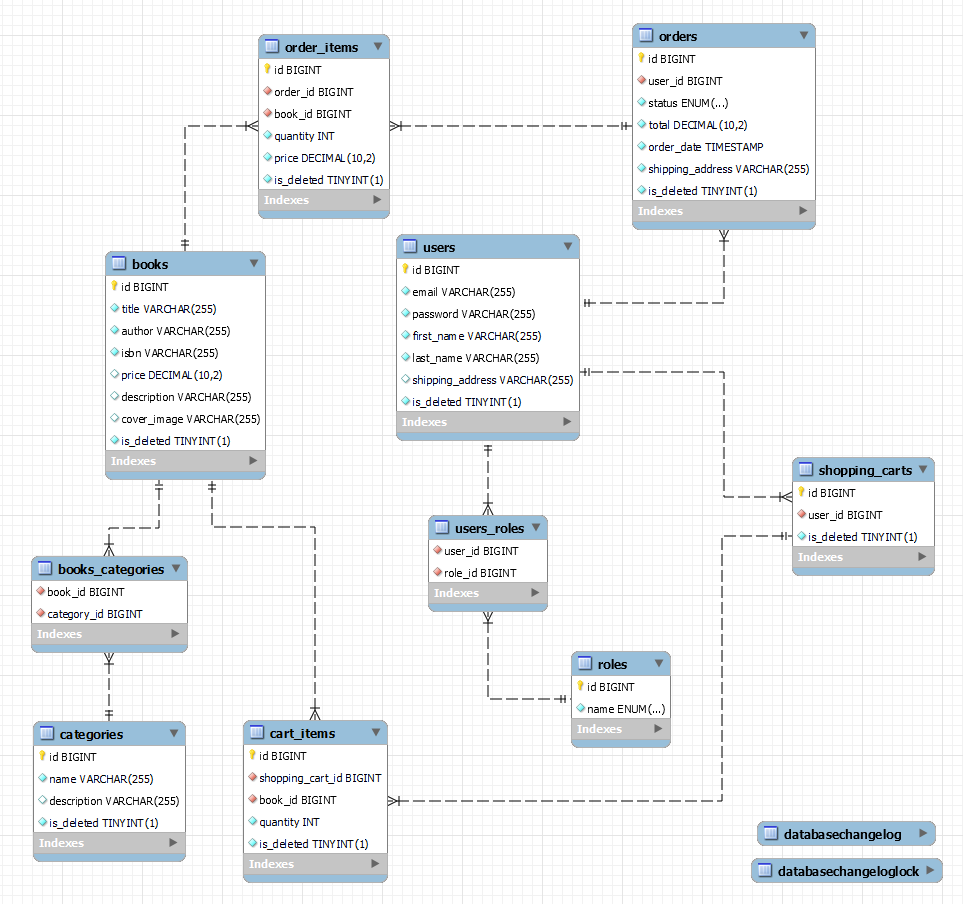
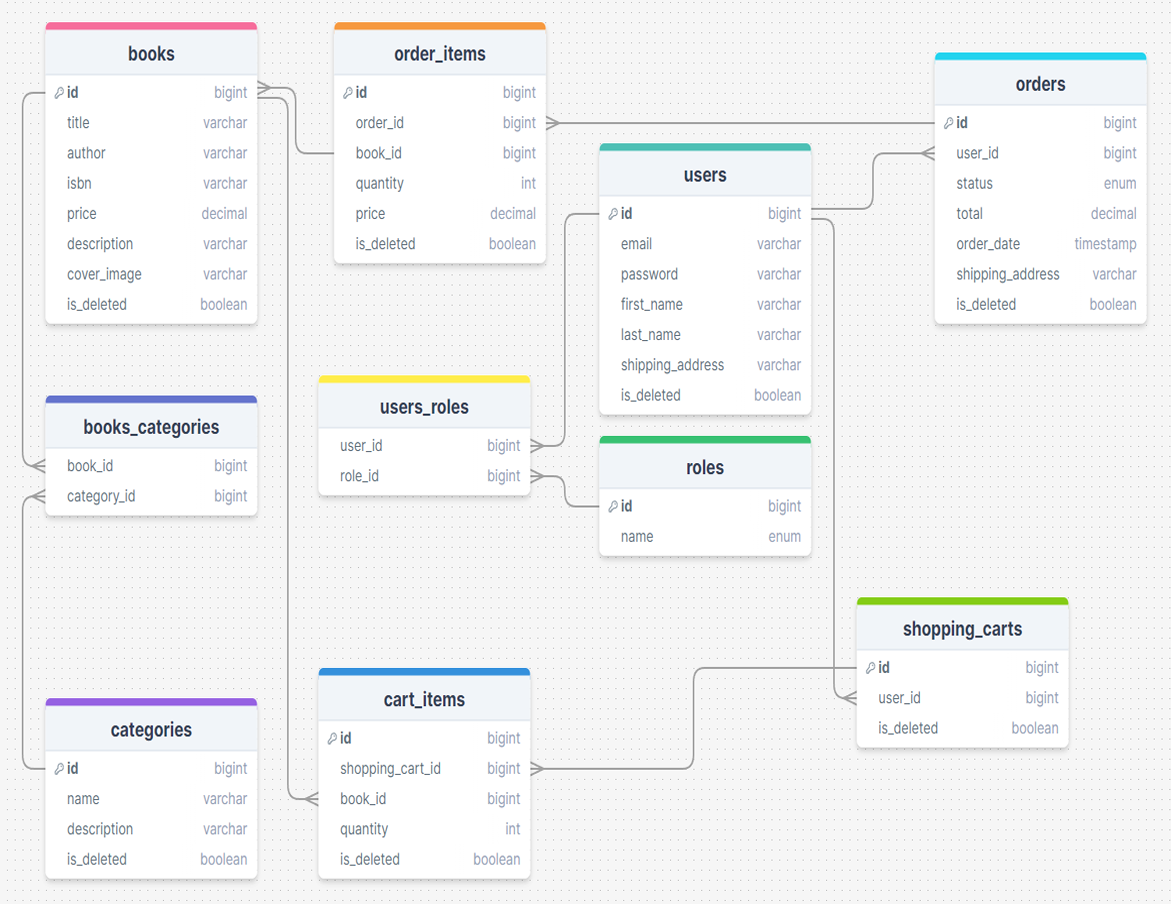
Readme, controller's descriptions, diagram, patch changed to putmapping fixed.

diff --git a/src/main/java/mate/academy/springbookapp/controller/OrderController.java b/src/main/java/mate/academy/springbookapp/controller/OrderController.java
@@ -15,9 +15,9 @@ import org.springframework.http.HttpStatus;
 import org.springframework.security.access.prepost.PreAuthorize;
 import org.springframework.security.core.Authentication;
 import org.springframework.web.bind.annotation.GetMapping;
-import org.springframework.web.bind.annotation.PatchMapping;
 import org.springframework.web.bind.annotation.PathVariable;
 import org.springframework.web.bind.annotation.PostMapping;
+import org.springframework.web.bind.annotation.PutMapping;
 import org.springframework.web.bind.annotation.RequestBody;
 import org.springframework.web.bind.annotation.RequestMapping;
 import org.springframework.web.bind.annotation.ResponseStatus;
@@ -32,17 +32,17 @@ public class OrderController {
     private final OrderService orderService;
 
     @GetMapping
-    @PreAuthorize("hasAuthority('USER') or hasAuthority('ADMIN')")
-    @Operation(summary = "Get the history of all orders for a specific user",
-            description = "Get the history of all orders for a specific user")
+    @PreAuthorize("isAuthenticated()")
+    @Operation(summary = "Get order's history",
+            description = "Get the list of all orders with details for a specific user")
     public List<OrderDto> getOrdersHistory(Authentication authentication) {
         return orderService.getAllOrders(
                 userService.getUserFromAuthentication(authentication).getId());
     }
 
     @GetMapping("/{orderId}/items")
-    @PreAuthorize("hasAuthority('USER') or hasAuthority('ADMIN')")
-    @Operation(summary = "Get the list of all items in the order for a specific user",
+    @PreAuthorize("isAuthenticated()")
+    @Operation(summary = "Get contents of the order",
             description = "Get the list of all items in the order for a specific user")
     public List<OrderItemDto> getAllItemsFromOrder(Authentication authentication,
                                                    @PathVariable Long orderId) {
@@ -51,9 +51,10 @@ public class OrderController {
     }
 
     @GetMapping("/{orderId}/items/{itemId}")
-    @PreAuthorize("hasAuthority('USER') or hasAuthority('ADMIN')")
-    @Operation(summary = "Get the one exact item from the order",
-            description = "Get the one exact item from the order")
+    @PreAuthorize("isAuthenticated()")
+    @Operation(summary = "Get the item from the order",
+            description = "Get the one exact item from the order "
+            + "providing item's ID and order's ID")
     public OrderItemDto getItemFromOrder(Authentication authentication, @PathVariable Long orderId,
                                          @PathVariable Long itemId) {
         return orderService.getItemFromOrder(
@@ -62,16 +63,16 @@ public class OrderController {
 
     @PostMapping
     @ResponseStatus(HttpStatus.CREATED)
-    @PreAuthorize("hasAuthority('USER') or hasAuthority('ADMIN')")
+    @PreAuthorize("isAuthenticated()")
     @Operation(summary = "Place a new order",
-            description = "Place a new order as a specific user")
+            description = "Place a new order as a specific user providing a shipping address")
     public OrderDto placeOrder(Authentication authentication,
                                @RequestBody @Valid PlaceOrderRequestDto placeOrderRequestDto) {
         return orderService.placeOrder(
                 userService.getUserFromAuthentication(authentication), placeOrderRequestDto);
     }
 
-    @PatchMapping("/{id}")
+    @PutMapping("/{id}")
     @PreAuthorize("hasAuthority('ADMIN')")
     @Operation(summary = "Update the status of the order",
             description = "Update the status of the order")

diff --git a/src/main/java/mate/academy/springbookapp/controller/CategoryController.java b/src/main/java/mate/academy/springbookapp/controller/CategoryController.java
@@ -34,29 +34,32 @@ public class CategoryController {
     @PostMapping
     @ResponseStatus(HttpStatus.CREATED)
     @PreAuthorize("hasAuthority('ADMIN')")
-    @Operation(summary = "Create a new category", description = "Create a new category")
+    @Operation(summary = "Create a new category", description = "Create a new category by providing "
+            + "its name and description")
     public CategoryDto createCategory(
             @RequestBody @Valid CreateCategoryRequestDto createCategoryRequestDto) {
         return categoryService.save(createCategoryRequestDto);
     }
 
     @GetMapping
-    @PreAuthorize("hasAuthority('USER') or hasAuthority('ADMIN')")
-    @Operation(summary = "Get all categories", description = "Get a list of all categories")
+    @PreAuthorize("isAuthenticated()")
+    @Operation(summary = "Get all categories", description = "Get a list of all available categories from DB")
     public List<CategoryDto> getAll(Pageable pageable) {
         return categoryService.findAll(pageable);
     }
 
     @GetMapping("/{id}")
-    @PreAuthorize("hasAuthority('USER') or hasAuthority('ADMIN')")
-    @Operation(summary = "Get a category by ID", description = "Get a category by ID")
+    @PreAuthorize("isAuthenticated()")
+    @Operation(summary = "Get a category by ID", description = "Get all details of a specific category "
+            + "by providing its ID")
     public CategoryDto getCategoryById(@PathVariable Long id) {
         return categoryService.getById(id);
     }
 
     @PutMapping("/{id}")
     @PreAuthorize("hasAuthority('ADMIN')")
-    @Operation(summary = "Update a category by ID", description = "Update a category by ID")
+    @Operation(summary = "Update a category by ID", description = "Update a category with given ID "
+            + "by providing its name and description")
     public CategoryDto updateCategory(@PathVariable Long id,
                                       @RequestBody @Valid CreateCategoryRequestDto
                                               createCategoryRequestDto) {
@@ -66,15 +69,15 @@ public class CategoryController {
     @DeleteMapping("/{id}")
     @ResponseStatus(HttpStatus.NO_CONTENT)
     @PreAuthorize("hasAuthority('ADMIN')")
-    @Operation(summary = "Delete a category by ID", description = "Delete a category by ID")
+    @Operation(summary = "Delete a category by ID", description = "Remove a category by its ID from DB")
     public void deleteCategory(@PathVariable Long id) {
         categoryService.deleteById(id);
     }
 
     @GetMapping("/{id}/books")
-    @PreAuthorize("hasAuthority('USER') or hasAuthority('ADMIN')")
+    @PreAuthorize("isAuthenticated()")
     @Operation(summary = "Get books by category ID",
-            description = "Get a list of books from a category with specific ID")
+            description = "Get a list of all books from a category of a specific ID")
     public List<BookDtoWithoutCategoryIds> getBooksByCategoryId(@PathVariable Long id,
                                                                 Pageable pageable) {
         return bookService.findAllByCategoryId(id, pageable);

diff --git a/src/main/java/mate/academy/springbookapp/controller/BookController.java b/src/main/java/mate/academy/springbookapp/controller/BookController.java
@@ -31,15 +31,16 @@ public class BookController {
     private final BookService bookService;
 
     @GetMapping
-    @PreAuthorize("hasAuthority('USER') or hasAuthority('ADMIN')")
-    @Operation(summary = "Get all books", description = "Get a list of all available books")
+    @PreAuthorize("isAuthenticated()")
+    @Operation(summary = "Get all books", description = "Get a list of all available books from DB")
     public List<BookDtoWithoutCategoryIds> getAll(Pageable pageable) {
         return bookService.findAll(pageable);
     }
 
     @GetMapping("/{id}")
-    @PreAuthorize("hasAuthority('USER') or hasAuthority('ADMIN')")
-    @Operation(summary = "Get a book by ID", description = "Get a book by ID")
+    @PreAuthorize("isAuthenticated()")
+    @Operation(summary = "Get a book by ID", description = "Get all details of a specific book "
+            + "by providing its ID")
     public BookDtoWithoutCategoryIds getBookById(@PathVariable Long id) {
         return bookService.findById(id);
     }
@@ -47,21 +48,23 @@ public class BookController {
     @PostMapping
     @PreAuthorize("hasAuthority('ADMIN')")
     @ResponseStatus(HttpStatus.CREATED)
-    @Operation(summary = "Create a new book", description = "Create a new book")
+    @Operation(summary = "Create a new book", description = "Create a new book by providing "
+            + "its title, author, isbn, price, description, cover image and category ID")
     public BookDto createBook(@RequestBody @Valid CreateBookRequestDto createBookRequestDto) {
         return bookService.save(createBookRequestDto);
     }
 
     @PutMapping("/{id}")
     @PreAuthorize("hasAuthority('ADMIN')")
-    @Operation(summary = "Update a book by ID", description = "Update a book by ID")
+    @Operation(summary = "Update a book by ID", description = "Update a book with given ID "
+            + "by providing its title, author, isbn, price, description, cover image and category ID")
     public BookDto updateBookById(@PathVariable Long id,
                                   @RequestBody @Valid CreateBookRequestDto createBookRequestDto) {
         return bookService.updateById(id, createBookRequestDto);
     }
 
     @GetMapping("/search")
-    @PreAuthorize("hasAuthority('USER') or hasAuthority('ADMIN')")
+    @PreAuthorize("isAuthenticated()")
     @Operation(summary = "Search books by parameters",
             description = "Get a list of books by given parameters: "
                     + "author, title, isbn, minPrice, maxPrice")
@@ -73,7 +76,7 @@ public class BookController {
     @ResponseStatus(HttpStatus.NO_CONTENT)
     @DeleteMapping("/{id}")
     @PreAuthorize("hasAuthority('ADMIN')")
-    @Operation(summary = "Delete a book by ID", description = "Delete a book by ID")
+    @Operation(summary = "Delete a book", description = "Remove a book by its ID from DB")
     public void delete(@PathVariable Long id) {
         bookService.deleteById(id);
     }

diff --git a/src/main/java/mate/academy/springbookapp/controller/ShoppingCartController.java b/src/main/java/mate/academy/springbookapp/controller/ShoppingCartController.java
@@ -32,8 +32,8 @@ public class ShoppingCartController {
     private final UserService userService;
 
     @GetMapping
-    @PreAuthorize("hasAuthority('USER') or hasAuthority('ADMIN')")
-    @Operation(summary = "Get the shopping cart with all cart items it contains",
+    @PreAuthorize("isAuthenticated()")
+    @Operation(summary = "Get contents of the shopping cart",
             description = "Get the shopping cart with all cart items it contains")
     public ShoppingCartDto getCartWithItems(Authentication authentication) {
         return shoppingCartService.getCartWithItems(
@@ -42,9 +42,10 @@ public class ShoppingCartController {
 
     @PostMapping
     @ResponseStatus(HttpStatus.CREATED)
-    @PreAuthorize("hasAuthority('USER') or hasAuthority('ADMIN')")
-    @Operation(summary = "Add a cart item to the shopping cart",
-            description = "Add a cart item to the shopping cart")
+    @PreAuthorize("isAuthenticated()")
+    @Operation(summary = "Add a cart item",
+            description = "Add a cart item to the shopping cart "
+            + "by providing the book ID and quantity")
     public ShoppingCartDto addItemToCart(Authentication authentication,
                                              @RequestBody @Valid
                                              CreateCartItemRequestDto createCartItemRequestDto) {
@@ -54,8 +55,8 @@ public class ShoppingCartController {
     }
 
     @PutMapping("/cart-item/{cartItemId}")
-    @PreAuthorize("hasAuthority('USER') or hasAuthority('ADMIN')")
-    @Operation(summary = "Update cart item's quantity in the shopping cart",
+    @PreAuthorize("isAuthenticated()")
+    @Operation(summary = "Update item's quantity",
             description = "Update cart item's quantity in the shopping cart")
     public CartItemDto updateItemQuantity(@RequestBody @Valid
                                               UpdateCartItemRequestDto updateCartItemRequestDto,
@@ -64,9 +65,9 @@ public class ShoppingCartController {
     }
 
     @DeleteMapping("/cart-item/{cartItemId}")
-    @PreAuthorize("hasAuthority('USER') or hasAuthority('ADMIN')")
+    @PreAuthorize("isAuthenticated()")
     @ResponseStatus(HttpStatus.NO_CONTENT)
-    @Operation(summary = "Delete a cart item in the shopping cart",
+    @Operation(summary = "Delete a cart item",
             description = "Delete a cart item in the shopping cart")
     public void deleteItemFromCart(@PathVariable Long cartItemId) {
         shoppingCartService.deleteItemFromCart(cartItemId);

diff --git a/src/main/java/mate/academy/springbookapp/controller/AuthenticationController.java b/src/main/java/mate/academy/springbookapp/controller/AuthenticationController.java
@@ -28,14 +28,16 @@ public class AuthenticationController {
 
     @PostMapping("/registration")
     @ResponseStatus(HttpStatus.CREATED)
-    @Operation(summary = "Create a new user", description = "Create a new user")
+    @Operation(summary = "Create a new user", description = "Create a new user with given email, "
+            + " password, first name, last name, shipping address")
     public UserResponseDto register(
             @RequestBody @Valid UserRegistrationRequestDto request) throws RegistrationException {
         return userService.register(request);
     }
 
     @PostMapping("/login")
-    @Operation(summary = "Log the user", description = "Log registered user into the service")
+    @Operation(summary = "Log the user", description = "Log registered user into the service "
+            + "using email and password")
     public UserLoginResponseDto login(
             @RequestBody @Valid UserLoginRequestDto request) {
         return authenticationService.authenticate(request);

diff --git a/README.md b/README.md
@@ -5,21 +5,12 @@
 The service includes a convenient book search by categories for quick access to literary works. Users can create personal accounts to track their purchase history. Adding books to the cart and completing orders is straightforward and secure, providing a hassle-free shopping experience.
 ## Technologies Used in the project
 
-- **Java**: A versatile programming language serving as the core foundation for developing the project.
-- **Spring Boot**: A framework designed to simplify the creation of production-ready, standalone Java applications.
-- **Spring Security**: A powerful security framework providing comprehensive authentication and authorization solutions.
-- **JWT** (JSON Web Token): A compact and self-contained method for securely transmitting information between parties as a JSON object.
-- **Spring Data JPA**: A data access framework that streamlines database operations by eliminating boilerplate code.
-- **Mapstruct**: A code generator that facilitates the mapping between Data Transfer Objects (DTOs) and entities.
-- **Maven**: A build automation tool that manages project dependencies and streamlines the build process.
-- **Liquibase**: A version control system for database changes, ensuring consistency across environments.
-- **Jackson**: A library that enables efficient JSON parsing and generation in Java applications.
-- **Swagger**: A toolkit for generating interactive API documentation, enhancing developer interaction with the API.
-- **Lombok**: A Java library that reduces boilerplate code, enhancing code readability and maintainability.
-- **MySQL**: A relational database management system used for storing and managing application data.
-- **Mockito**: A testing framework that allows the creation of mock objects for effective unit testing.
-- **JUnit 5**: A modern testing framework for writing and executing unit tests in Java.
-- **Docker**: A platform for developing, shipping, and running applications within containers, ensuring consistency across environments.
+- Backend: Spring Framework (Spring Boot, Spring Security, Spring Data JPA), JWT, MySQL, Mapstruct, Jackson
+- Build Tool: Maven
+- Database Migration: Liquibase
+- Containerization: Docker
+- Testing: JUnit, Mockito, Test Containers
+- API Documentation: Swagger
 
 ## Layered Architecture
 - **Controller Layer**: Handles incoming HTTP requests and communicates with clients. Controllers contain methods that process these requests and call the necessary services to execute business operations.
@@ -31,48 +22,58 @@ The service includes a convenient book search by categories for quick access to 
 - **Test**: Encompasses unit and integration tests that validate the functionality and correctness of various application components, including controllers, services, and repositories.
 
 ### Database entities
-- **Book**: Represents a literary work with associated metadata such as title, author, publication year, and other pertinent details.
+- **Book**: Represents a literary work with associated metadata such as title, author and other pertinent details.
 - **Category**: A classification system for organizing books into various genres or subjects.
 - **Shopping Cart**: A temporary repository for products selected by a user for potential purchase, containing itemized details.
 - **Cart Item**: An individual entry within a shopping cart that specifies a particular book and its quantity.
 - **User**: An individual with a registered account on the platform, encompassing personal details and assigned permissions.
 - **Role**: A set of permissions assigned to a user, determining their access level and capabilities within the system, such as USER or ADMIN.
-- **Order**: A record of a completed transaction, capturing details of the purchase, including items bought, payment information, and delivery specifics.
+- **Order**: A record of a completed transaction, capturing details of the purchase, including items bought and delivery specifics.
 - **Order Item**: A component of an order that details the specific book purchased and the number of units bought.
 
-## Access to endpoints
-🟩 - for all users  
-🟨 - for logged users  
-🟥 - for admin
-
 ### User
-- 🟩 **POST**: /api/auth/registration - User Registration: Customers can sign up by providing their email, password, and personal information.
-- 🟩 **POST**: /api/auth/login - User Authentication: Registered users can securely log in.
+Public access
+- **POST**: /api/auth/registration - Customers can sign up by providing their email, password.
+- **POST**: /api/auth/login - Registered users can securely log in and receive their JWT token.
 ### Book
-- 🟨 **GET**: /api/books - Retrieve Book Catalog: Users have the ability to view the catalog of available books.
-- 🟨 **GET**: /api/books/{id} - View Book Details: Users can access detailed information about individual books.
-- 🟨 **GET**: /api/books/search - Search Books: Users can search for books using various criteria.
-- 🟥 **POST**: /api/books - Add New Book: Admins can add new books to the collection.
-- 🟥 **PUT**: /api/books/{id} - Update Book Details: Admins can modify the details of existing books.
-- 🟥 **DELETE**: /api/books/{id} - Delete Book: Admins can remove books from the catalog.
+
+Only for logged users:
+- **GET**: /api/books - Users have the ability to view the catalog of available books.
+- **GET**: /api/books/{id} - Users can access detailed information about individual books.
+- **GET**: /api/books/search - Users can search for books using various criteria.
+
+Only for the administrator:
+- **POST**: /api/books - Admins can add new books to the collection.
+- **PUT**: /api/books/{id} - Admins can modify the details of existing books.
+- **DELETE**: /api/books/{id} - Admins can remove books from the catalog.
 ### Category
-- 🟨 **GET**: /api/categories - Retrieve Categories: Users can view the list of all available categories.
-- 🟨 **GET**: /api/categories/{id} - View Category: Users can get detailed information about specific categories.
-- 🟨 **GET**: /api/categories/{id}/books - Get Books by Category: Users can see all books that belong to a particular category.
-- 🟥 **POST**: /api/categories - Create Category: Admins can create new book categories.
-- 🟥 **PUT**: /api/categories/{id} - Update Category: Admins can update information about existing categories.
-- 🟥 **DELETE**: /api/categories/{id} - Delete Category: Admins can delete categories from the list.
+
+Only for logged users:
+- **GET**: /api/categories - Users can view the list of all available categories.
+- **GET**: /api/categories/{id} - Users can get detailed information about specific categories.
+- **GET**: /api/categories/{id}/books - Users can see all books that belong to a particular category.
+
+Only for the administrator:
+- **POST**: /api/categories - Admins can create new book categories.
+- **PUT**: /api/categories/{id} - Admins can update information about existing categories.
+- **DELETE**: /api/categories/{id} - Admins can delete categories from the list.
 ### Shopping Cart
-- 🟨 **GET**: /api/cart - View Cart: Users can see what is in their shopping cart.
-- 🟨 **POST**: /api/cart - Add to Cart: Users can add books to their cart.
-- 🟨 **PUT**: /api/cart/cart-items/{id} - Update Cart: Users can change the quantity of items in their cart.
-- 🟨 **DELETE**: /api/cart/cart-items/{id} - Remove from Cart: Users can remove items from their cart.
+
+Only for logged users:
+- **GET**: /api/cart - Users can see what is in their shopping cart.
+- **POST**: /api/cart - Users can add books to their cart.
+- **PUT**: /api/cart/cart-items/{id} - Users can change the quantity of items in their cart.
+- **DELETE**: /api/cart/cart-items/{id} - Users can remove items from their cart.
 ### Order
-- 🟨 **GET**: /api/orders - View Orders History: Users can view their order history.
-- 🟨 **GET**: /api/orders/{id}/items - View Order Items: Users can see all items in a specific order.
-- 🟨 **GET**: /api/orders/{orderId}/items/{itemId} - View Specific Order Item: Users can get details of a particular item within an order.
-- 🟨 **POST**: /api/orders - Place Order: Users can place an order for books in their cart.
-- 🟥 **PATCH**: /api/orders/{id} - Update Order Status: Admins can update the status of orders.
+
+Only for logged users:
+- **GET**: /api/orders - Users can view their order history.
+- **GET**: /api/orders/{id}/items - Users can see all items in a specific order.
+- **GET**: /api/orders/{orderId}/items/{itemId} - Users can get details of a particular item within an order.
+- **POST**: /api/orders - Users can place an order for books in their cart.
+
+Only for the administrator:
+- **PATCH**: /api/orders/{id} - Admins can update the status of orders.
 
 ## SQL Database Diagram
 Below is a representation of the database used in the project:
